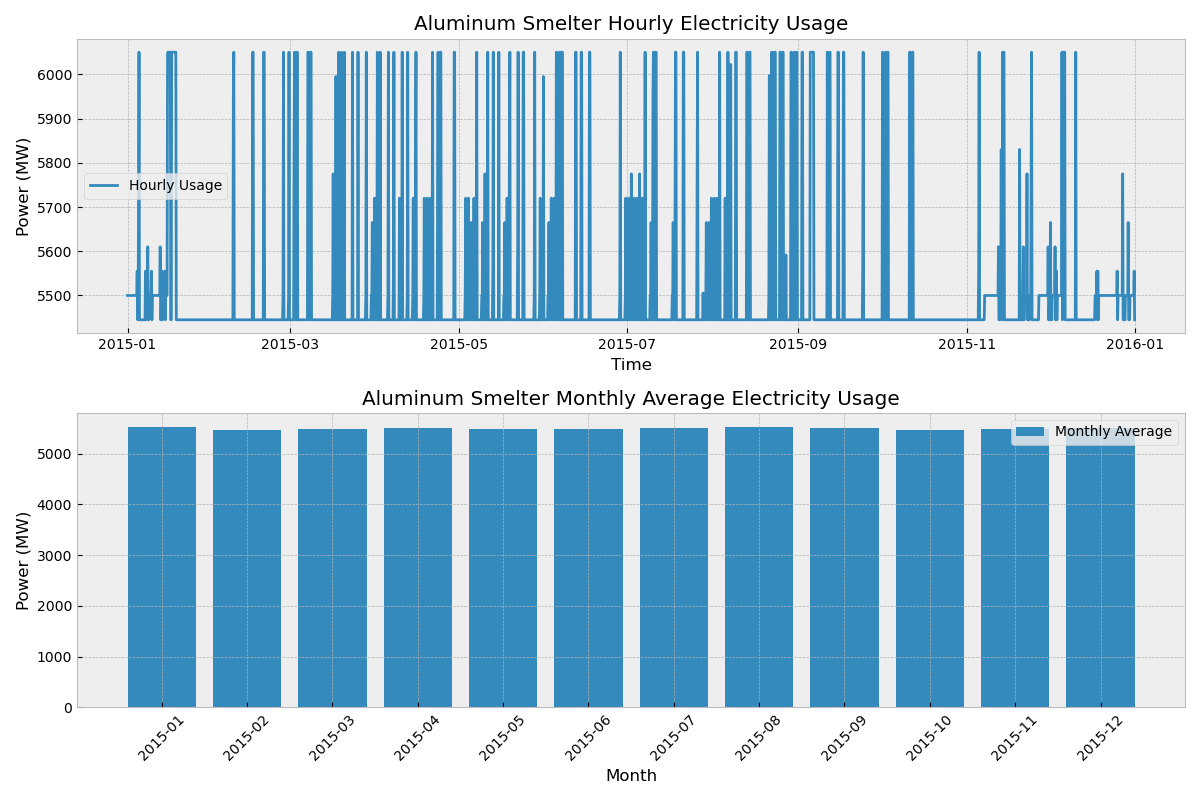
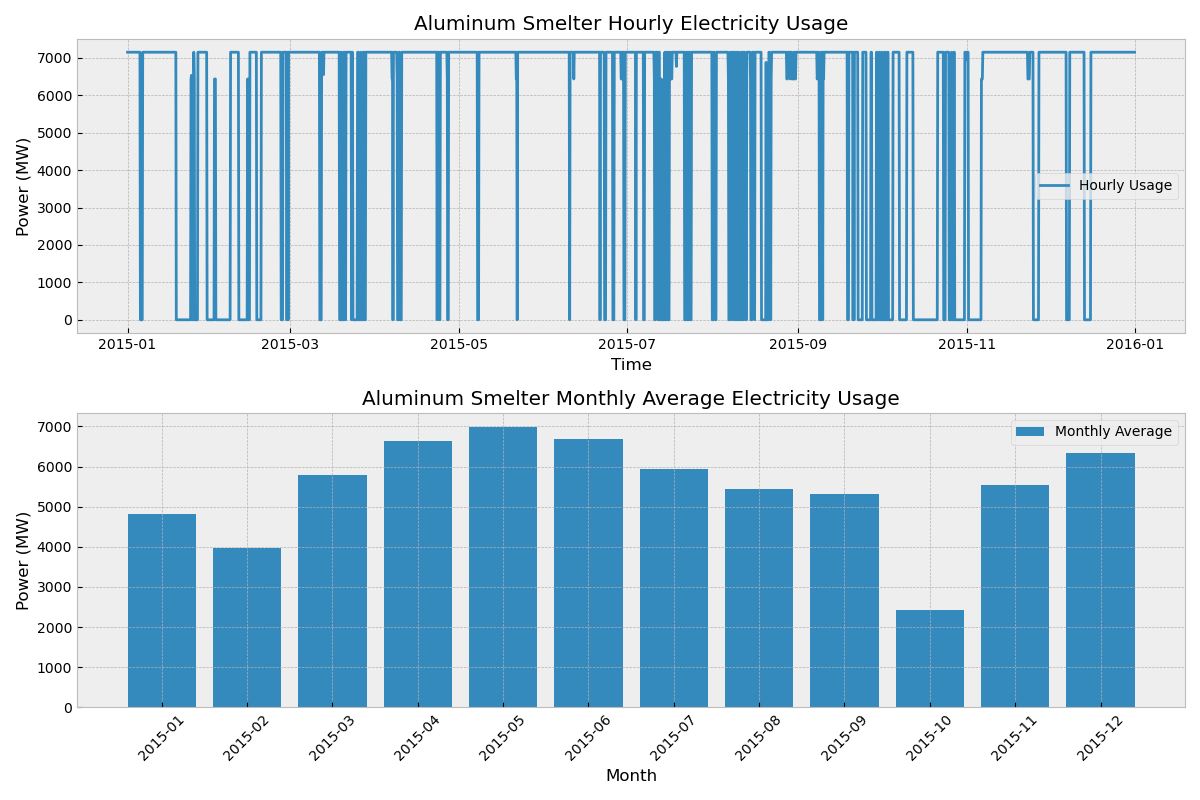
update single node

diff --git a/examples/scripts/capacity_expansion_planning_pmin.py b/examples/scripts/capacity_expansion_planning_pmin.py
@@ -115,14 +115,35 @@ def create_network(costs, ts, p_min_pu, excess_rate, override_file=None):
     n.add("Carrier", "aluminum storage")
     
     # 添加负载
+    n.add("Load", "demand", bus="electricity", p_set=ts.load)
+    n.add("Load", "al demand", bus="aluminum", p_set=ts.aluminum)
+    
+    # 添加切负荷发电机（如果启用）
     if CONFIG["enable_load_shedding"]:
-        # 启用切负荷
-        n.add("Load", "demand", bus="electricity", p_set=ts.load, p_set_extendable=True, marginal_cost=CONFIG["load_shedding_cost"])  # 允许切负荷
-        n.add("Load", "al demand", bus="aluminum", p_set=ts.aluminum, p_set_extendable=True, marginal_cost=CONFIG["al_load_shedding_cost"])  # 允许切负荷
-    else:
-        # 不启用切负荷
-        n.add("Load", "demand", bus="electricity", p_set=ts.load)
-        n.add("Load", "al demand", bus="aluminum", p_set=ts.aluminum)
+        # 添加切负荷carrier
+        n.add("Carrier", "load", color="#dd2e23", nice_name="Load shedding")
+        
+        # 为电力负荷添加切负荷发电机
+        n.add(
+            "Generator",
+            "demand load",
+            bus="electricity",
+            carrier="load",
+            sign=1e-3,  # 调整单位，p和p_nom以kW为单位而不是MW
+            marginal_cost=CONFIG["load_shedding_cost"],  # 欧元/kWh
+            p_nom=1e9,  # kW，设置一个很大的容量
+        )
+        
+        # 为铝负荷添加切负荷发电机
+        n.add(
+            "Generator",
+            "al demand load",
+            bus="aluminum",
+            carrier="load",
+            sign=1e-3,  # 调整单位，p和p_nom以kW为单位而不是MW
+            marginal_cost=CONFIG["al_load_shedding_cost"],  # 欧元/kWh
+            p_nom=1e9,  # kW，设置一个很大的容量
+        )
     
     # 添加发电机组
     add_generators(n, costs, ts)
@@ -222,6 +243,8 @@ def add_other_components(n, al_p_nom, p_min_pu):
         ramp_limit_start_up=1.0,  # 添加爬坡限制
         ramp_limit_shut_down=1.0,  # 添加爬坡限制
     )
+    print(CONFIG["al_start_up_cost"] * al_p_nom)
+    print(CONFIG["al_start_up_cost"], al_p_nom)
     
     # 添加铝存储
     n.add(
@@ -311,7 +334,7 @@ def main(override_file="data/override_component_attrs", config_file="config.yaml
             n.optimize(solver_name=solver_name, **solver_options)
             
             # 在优化后调用启动分析
-            # analyze_startups(n)
+            analyze_startups(n)
             
             # 分析排放情况
             scenario_name = f"Min Power {p_min_pu*100:.0f}%"
@@ -326,9 +349,13 @@ def main(override_file="data/override_component_attrs", config_file="config.yaml
             load_shedding_data = {}
             if CONFIG["enable_load_shedding"]:
                 # 计算切负荷量（GWh）
+                # 由于使用了sign=1e-3，切负荷发电机的出力需要乘以1e3来转换为MW
+                demand_load_shed = n.generators_t.p['demand load'].sum() * 1e3 if 'demand load' in n.generators_t.p.columns else 0
+                al_demand_load_shed = n.generators_t.p['al demand load'].sum() * 1e3 if 'al demand load' in n.generators_t.p.columns else 0
+                
                 load_shedding_data = {
-                    'demand': n.loads_t.p_set['demand'].sum() - n.loads_t.p['demand'].sum(),
-                    'al demand': n.loads_t.p_set['al demand'].sum() - n.loads_t.p['al demand'].sum()
+                    'demand': demand_load_shed,
+                    'al demand': al_demand_load_shed
                 }
                 # 转换为GWh
                 load_shedding_data = {k: v * CONFIG["resolution"] / 1e3 for k, v in load_shedding_data.items()}
@@ -359,7 +386,7 @@ def main(override_file="data/override_component_attrs", config_file="config.yaml
     # compare_scenarios(emission_results, scenario_names)
     
     # 创建汇总图表
-    create_summary_plots(results, CONFIG)
+    # create_summary_plots(results, CONFIG)
     
     # 打印结果表格
     print_results_table(results)

diff --git a/examples/scripts/plot_capacity_expansion.py b/examples/scripts/plot_capacity_expansion.py
@@ -7,30 +7,39 @@ import pypsa
 import os
 
 def plot_results(n, p_min_pu, save_path="examples/results"):
-    """绘制电解槽用电情况结果"""
+    """绘制电解槽用电情况结果（仅2月数据）"""
     # 获取电解槽用电数据
     smelter_p = n.links_t.p0['smelter']  # 电解槽每小时用电量
+    
+    # 筛选4月数据
+    month_data = smelter_p[smelter_p.index.month == 2]
+    
+    if len(month_data) == 0:
+        print("警告: 没有找到4月的数据")
+        return
     
     # 创建图形
     fig, (ax1, ax2) = plt.subplots(2, 1, figsize=(12, 8))
     
-    # 绘制小时级数据
-    ax1.plot(smelter_p, label='Hourly Usage')
-    ax1.set_title('Aluminum Smelter Hourly Electricity Usage')
-    ax1.set_xlabel('Time')
+    # 绘制4月小时级数据
+    ax1.plot(month_data, label='April Hourly Usage', color='blue', linewidth=1)
+    ax1.set_title('Aluminum Smelter April Hourly Electricity Usage')
+    ax1.set_xlabel('Time (April)')
     ax1.set_ylabel('Power (MW)')
     ax1.legend()
+    ax1.grid(True, alpha=0.3)
     
-    # 计算并绘制月度数据
-    monthly_usage = smelter_p.resample('M').mean()
-    ax2.bar(range(len(monthly_usage)), monthly_usage, label='Monthly Average')
-    ax2.set_title('Aluminum Smelter Monthly Average Electricity Usage')
-    ax2.set_xlabel('Month')
+    # 计算并绘制4月日平均数据
+    daily_usage = month_data.resample('D').mean()
+    ax2.bar(range(len(daily_usage)), daily_usage, label='April Daily Average', color='orange', alpha=0.7)
+    ax2.set_title('Aluminum Smelter April Daily Average Electricity Usage')
+    ax2.set_xlabel('Day of April')
     ax2.set_ylabel('Power (MW)')
-    ax2.set_xticks(range(len(monthly_usage)))
-    ax2.set_xticklabels([d.strftime('%Y-%m') for d in monthly_usage.index])
+    ax2.set_xticks(range(len(daily_usage)))
+    ax2.set_xticklabels([d.strftime('%m-%d') for d in daily_usage.index])
     ax2.tick_params(axis='x', rotation=45)
     ax2.legend()
+    ax2.grid(True, alpha=0.3)
     
     plt.tight_layout()
     
@@ -38,7 +47,7 @@ def plot_results(n, p_min_pu, save_path="examples/results"):
     os.makedirs(save_path, exist_ok=True)
     
     # 保存图像
-    plt.savefig(f"{save_path}/aluminum_smelter_usage_{p_min_pu}.png")
+    plt.savefig(f"{save_path}/aluminum_smelter_usage_april_{p_min_pu}.png")
     # 显示图像
     plt.show()
     # 关闭图形，释放内存
@@ -239,9 +248,9 @@ def plot_time_series_analysis(n, p_min_pu, save_path="examples/results"):
     # 确保保存目录存在
     os.makedirs(save_path, exist_ok=True)
     
-    plt.savefig(f'{save_path}/time_series_analysis_{p_min_pu}.png', dpi=300, bbox_inches='tight')
-    plt.show()
-    plt.close()
+    # plt.savefig(f'{save_path}/time_series_analysis_{p_min_pu}.png', dpi=300, bbox_inches='tight')
+    # plt.show()
+    # plt.close()
 
 def create_summary_plots(results, config, save_path="examples/results"):
     """创建所有汇总图表"""

diff --git a/examples/scripts/config.py b/examples/scripts/config.py
@@ -12,8 +12,8 @@ CONFIG = {
     
     # 切负荷设置
     "enable_load_shedding": True,  # 是否启用切负荷
-    "load_shedding_cost": 1e3,  # 普通负荷切负荷成本（欧元/MWh）
-    "al_load_shedding_cost": 1e4,  # 铝负荷切负荷成本（欧元/MWh）
+    "load_shedding_cost": 1e2,  # 普通负荷切负荷成本（欧元/kWh）
+    "al_load_shedding_cost": 1e3,  # 铝负荷切负荷成本（欧元/kWh）
     
     # 电解槽成本
     "al_capital_cost": 0 * 6210,  # 电解槽年准化资本成本（$/MW/年）
@@ -31,8 +31,8 @@ CONFIG = {
     
     # 电解槽启动成本, 计算方式：
     # $65M ~ 450,000 mt per year
-    "al_start_up_cost": 16000 * 7.3 / 7.55 * 6.8, # euro/MW
-    "al_p_min_pu": [0.99],  # 改回列表以支持pmin脚本
+    "al_start_up_cost": 16000000 * 7.3 / 7.55 * 6.8, # euro/MW
+    "al_p_min_pu": [0.9],  # 改回列表以支持pmin脚本
     # 启动时间
     # "al_start_up_time": 24, # 小时
     

diff --git a/examples/scripts/plot_results_no_startup_cost.py b/examples/scripts/plot_results_no_startup_cost.py
@@ -53,13 +53,13 @@ ax4.set_title('Aluminum Smelter Capacity vs Excess Rate', fontsize=15)
 ax4.grid(True)
 
 # 调整布局
-plt.tight_layout()
+# plt.tight_layout()
 
-# 保存图表
-plt.savefig('examples/results/system_analysis.png', dpi=300, bbox_inches='tight')
+# # 保存图表
+# plt.savefig('examples/results/system_analysis.png', dpi=300, bbox_inches='tight')
 
-# 显示图表
-plt.show()
+# # 显示图表
+# plt.show()
 
 # 打印关键分析结果
 print("\nKey Analysis Results:")

diff --git a/examples/scripts/plot_diff_flexibility.py b/examples/scripts/plot_diff_flexibility.py
@@ -31,7 +31,7 @@ for bars in [bars1, bars2]:
                 ha='center', va='bottom')
 
 # Adjust layout and save
-plt.show()
-plt.tight_layout()
-plt.savefig('examples/plots/flexibility_impact.png', dpi=300, bbox_inches='tight')
-plt.close() 
+# plt.show()
+# plt.tight_layout()
+# plt.savefig('examples/plots/flexibility_impact.png', dpi=300, bbox_inches='tight')
+# plt.close() 
